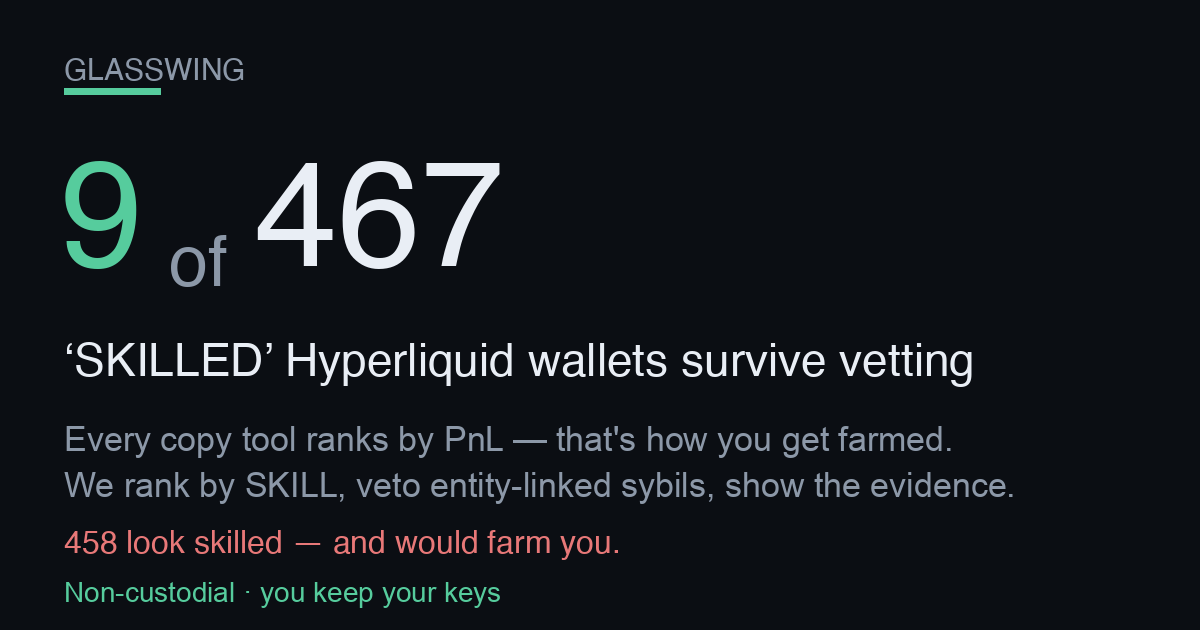
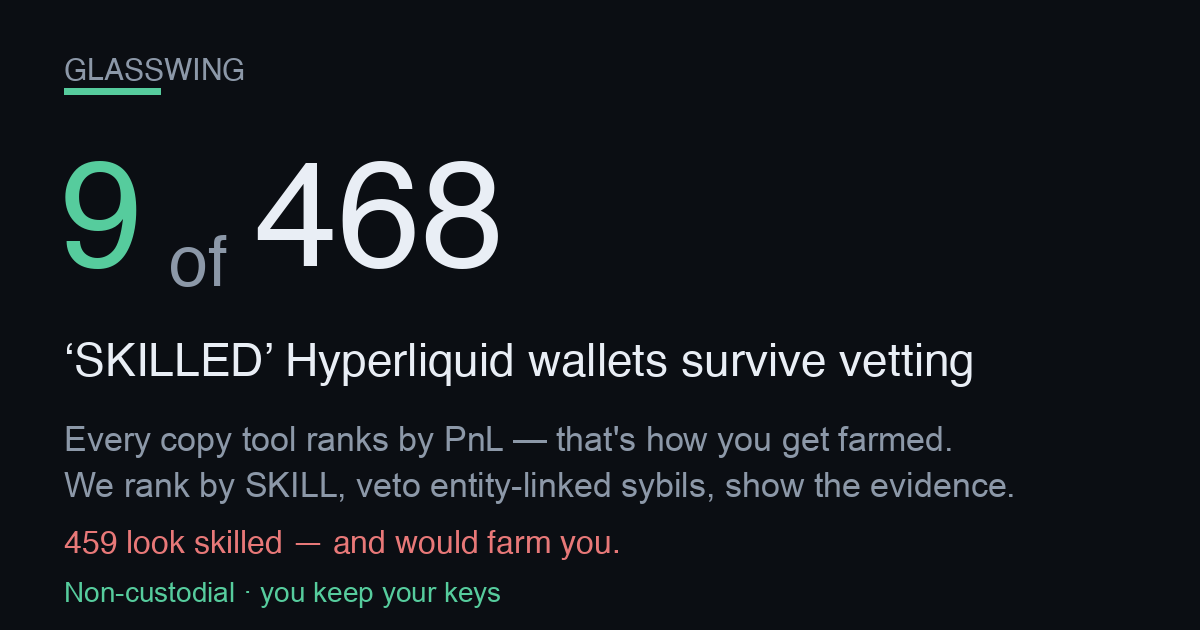
publish funnel 2026-09-25T11:26:40Z

Changed region(s): [[0.3392, 0.2413, 0.4317, 0.4524], [0.0617, 0.8444, 0.0925, 0.8746]]

diff --git a/screener.html b/screener.html
@@ -57,4 +57,4 @@ padding:11px 22px;font-size:15px;font-weight:800;border:1px solid var(--good)}
 footer{margin-top:34px;color:var(--muted);font-size:12px;line-height:1.6;
 border-top:1px solid var(--line);padding-top:16px}
 footer b{color:var(--ink)}
-</style></head><body><div class="wrap"><div class="nav"><a href="./index.html">&larr; Glasswing home</a><span class="sep">|</span><span>Edge Screener</span><span class="sep">|</span><a href="./dex.html">Copy a vetted leader</a></div><div class="hero"><h1>Hyperliquid Edge Screener</h1><div class="sub">Where&rsquo;s the carry, where a maker earns, and what&rsquo;s moving on Hyperliquid &mdash; live, computed from the public API. Bookmark it. Every number below is real and timestamped.</div><div class="stamp">Data as of <b>2026-09-25T05:14:37Z</b> &middot; rendered 2026-09-25T05:14:37Z &middot; 178 perps &middot; 109 HIP-3 (xyz) markets scanned</div></div><h2>Top funding &mdash; the carry table <span class="hint">perps ranked by annualized funding. Positive = longs pay shorts (a delta-neutral short earns it).</span></h2><div class="tblwrap"><table><thead><tr><th>Coin</th><th>Funding / hr</th><th>Annualized</th><th>Who pays</th><th>Open interest</th><th>24h volume</th></tr></thead><tbody><tr><td class="coin">XAI<span class="tag thin" title="Low liquidity/OI &mdash; ADL &amp; liquidation risk; funding can flip">&#9888; thin</span></td><td>-0.0525%</td><td class="neg">-460.3%</td><td><span class="tag shorts">shorts pay</span></td><td>$454K</td><td>$1.9M</td></tr><tr><td class="coin">STBL</td><td>+0.0145%</td><td class="pos">+126.8%</td><td><span class="tag longs">longs pay</span></td><td>$2.4M</td><td>$1.1M</td></tr><tr><td class="coin">GRAM</td><td>+0.0086%</td><td class="pos">+75.7%</td><td><span class="tag longs">longs pay</span></td><td>$39.2M</td><td>$6.2M</td></tr><tr><td class="coin">AR</td><td>+0.0071%</td><td class="pos">+62.4%</td><td><span class="tag longs">longs pay</span></td><td>$6.5M</td><td>$3.1M</td></tr><tr><td class="coin">FOGO</td><td>-0.0060%</td><td class="neg">-52.9%</td><td><span class="tag shorts">shorts pay</span></td><td>$706K</td><td>$253K</td></tr><tr><td class="coin">PONS</td><td>+0.0054%</td><td class="pos">+47.1%</td><td><span class="tag longs">longs pay</span></td><td>$62.8M</td><td>$20.9M</td></tr><tr><td class="coin">XMR</td><td>+0.0043%</td><td class="pos">+37.6%</td><td><span class="tag longs">longs pay</span></td><td>$88.4M</td><td>$34.2M</td></tr><tr><td class="coin">NIL</td><td>+0.0038%</td><td class="pos">+33.5%</td><td><span class="tag longs">longs pay</span></td><td>$13.7M</td><td>$27.4M</td></tr><tr><td class="coin">DOT</td><td>-0.0037%</td><td class="neg">-32.0%</td><td><span class="tag shorts">shorts pay</span></td><td>$5.7M</td><td>$1.6M</td></tr><tr><td class="coin">EIGEN</td><td>+0.0036%</td><td class="pos">+31.4%</td><td><span class="tag longs">longs pay</span></td><td>$4.3M</td><td>$1.1M</td></tr><tr><td class="coin">CRV</td><td>+0.0031%</td><td class="pos">+27.4%</td><td><span class="tag longs">longs pay</span></td><td>$21.8M</td><td>$11.4M</td></tr><tr><td class="coin">XLM</td><td>+0.0031%</td><td class="pos">+26.9%</td><td><span class="tag longs">longs pay</span></td><td>$13.9M</td><td>$4.8M</td></tr></tbody></table></div><h2>Widest HIP-3 spreads &mdash; where a maker earns <span class="hint">xyz: markets by impact-price spread vs the ~0.6bps round-trip fee. A resting limit order captures the gap.</span></h2><div class="tblwrap"><table><thead><tr><th>Market</th><th>Spread</th><th>vs 0.6bps fee</th><th>Mid</th><th>24h volume</th></tr></thead><tbody><tr><td class="coin">xyz:CVX<span class="tag gm">growth</span></td><td>533.6 bps</td><td class="pos">+533.0 bps</td><td>203.7500</td><td>$15K</td></tr><tr><td class="coin">xyz:NCLD<span class="tag gm">growth</span></td><td>367.7 bps</td><td class="pos">+367.1 bps</td><td>25.5275</td><td>$173K</td></tr><tr><td class="coin">xyz:BIRD<span class="tag gm">growth</span></td><td>252.9 bps</td><td class="pos">+252.3 bps</td><td>2.3992</td><td>$58K</td></tr><tr><td class="coin">xyz:GIGADEV<span class="tag gm">growth</span></td><td>242.4 bps</td><td class="pos">+241.8 bps</td><td>55.6690</td><td>$249K</td></tr><tr><td class="coin">xyz:OURA<span class="tag gm">growth</span></td><td>151.5 bps</td><td class="pos">+150.9 bps</td><td>50.8245</td><td>$186K</td></tr><tr><td class="coin">xyz:KSTR<span class="tag gm">growth</span></td><td>94.4 bps</td><td class="pos">+93.8 bps</td><td>23.7355</td><td>$4K</td></tr><tr><td class="coin">xyz:MAGS<span class="tag gm">growth</span></td><td>91.6 bps</td><td class="pos">+91.0 bps</td><td>72.5460</td><td>$436K</td></tr><tr><td class="coin">xyz:LYTE<span class="tag gm">growth</span></td><td>80.4 bps</td><td class="pos">+79.8 bps</td><td>25.5230</td><td>$25K</td></tr><tr><td class="coin">xyz:QNT<span class="tag gm">growth</span></td><td>79.2 bps</td><td class="pos">+78.6 bps</td><td>49.7075</td><td>$604K</td></tr><tr><td class="coin">xyz:XBI<span class="tag gm">growth</span></td><td>77.2 bps</td><td class="pos">+76.6 bps</td><td>156.3050</td><td>$80K</td></tr><tr><td class="coin">xyz:SHAZ<span class="tag gm">growth</span></td><td>70.7 bps</td><td class="pos">+70.1 bps</td><td>57.2530</td><td>$276K</td></tr><tr><td class="coin">xyz:RDDT<span class="tag gm">growth</span></td><td>53.8 bps</td><td class="pos">+53.2 bps</td><td>152.8750</td><td>$142K</td></tr></tbody></table></div><h2>Momentum &amp; volume &mdash; what&rsquo;s moving <span class="hint">perps by 24h volume with the 24h price change (mark vs prior-day).</span></h2><div class="tblwrap"><table><thead><tr><th>Coin</th><th>24h volume</th><th>24h change</th><th>Mark</th></tr></thead><tbody><tr><td class="coin">BTC</td><td>$3.88B</td><td class="pos">+0.02%</td><td>84,184.80</td></tr><tr><td class="coin">ETH</td><td>$1.05B</td><td class="neg">-0.48%</td><td>2,679.00</td></tr><tr><td class="coin">HYPE</td><td>$797.7M</td><td class="neg">-1.12%</td><td>91.6370</td></tr><tr><td class="coin">ZEC</td><td>$551.0M</td><td class="pos">+0.98%</td><td>1,545.10</td></tr><tr><td class="coin">SOL</td><td>$320.4M</td><td class="pos">+0.64%</td><td>116.3600</td></tr><tr><td class="coin">NEAR</td><td>$300.0M</td><td class="neg">-0.25%</td><td>4.4971</td></tr><tr><td class="coin">XRP</td><td>$187.4M</td><td class="pos">+1.38%</td><td>1.5335</td></tr><tr><td class="coin">ONDO</td><td>$155.0M</td><td class="pos">+24.55%</td><td>0.533622</td></tr><tr><td class="coin">ENA</td><td>$80.2M</td><td class="pos">+3.89%</td><td>0.22063</td></tr><tr><td class="coin">XPL</td><td>$76.7M</td><td class="pos">+27.59%</td><td>0.11505</td></tr><tr><td class="coin">LTC</td><td>$74.4M</td><td class="pos">+3.87%</td><td>70.8630</td></tr><tr><td class="coin">LIT</td><td>$70.3M</td><td class="neg">-6.99%</td><td>4.9529</td></tr></tbody></table></div><div class="cta"><h2>These are the opportunities. Now copy the people who trade them.</h2><p class="lead">Spotting the carry and the spreads is the easy part &mdash; sizing, timing and risk are where most traders bleed. Copy the <b>skill-vetted</b> Hyperliquid leaders who actually trade these edges. Non-custodial: <b>you keep your keys and your funds</b> the entire time.</p><div class="row"><a class="btn" href="./index.html">See the vetted leaders &rarr;</a><a class="btn ghost" href="./dex.html">Start copying (non-custodial) &rarr;</a></div><div class="nc"><b>Non-custodial &amp; honest:</b> we never hold your keys or funds. Copying routes through a <b>0.01%</b> (1bp) on-chain builder fee &mdash; that is the only thing we ever charge, and it is the same fee shown on the copy page. Nothing on this screener is executed for you; it is information only.</div></div><footer><b>Not financial advice.</b> Funding rates, spreads and volumes are live snapshots that change every block; figures can be stale by the time you act. A high funding rate is <b>not free money</b> &mdash; the biggest rates sit on the thinnest, most crowded books (flagged &#9888; thin), where funding can flip against you and auto-deleveraging (ADL) or liquidation can close your position. &ldquo;Spread&rdquo; here is the impact-price spread (a conservative maker signal), not a guaranteed fill. HIP-3 markets are experimental. Do your own research and size responsibly. Glasswing is <b>non-custodial</b> &mdash; we never take custody of your keys or funds.</footer></div></body></html>
+</style></head><body><div class="wrap"><div class="nav"><a href="./index.html">&larr; Glasswing home</a><span class="sep">|</span><span>Edge Screener</span><span class="sep">|</span><a href="./dex.html">Copy a vetted leader</a></div><div class="hero"><h1>Hyperliquid Edge Screener</h1><div class="sub">Where&rsquo;s the carry, where a maker earns, and what&rsquo;s moving on Hyperliquid &mdash; live, computed from the public API. Bookmark it. Every number below is real and timestamped.</div><div class="stamp">Data as of <b>2026-09-25T11:23:21Z</b> &middot; rendered 2026-09-25T11:23:21Z &middot; 178 perps &middot; 109 HIP-3 (xyz) markets scanned</div></div><h2>Top funding &mdash; the carry table <span class="hint">perps ranked by annualized funding. Positive = longs pay shorts (a delta-neutral short earns it).</span></h2><div class="tblwrap"><table><thead><tr><th>Coin</th><th>Funding / hr</th><th>Annualized</th><th>Who pays</th><th>Open interest</th><th>24h volume</th></tr></thead><tbody><tr><td class="coin">XAI<span class="tag thin" title="Low liquidity/OI &mdash; ADL &amp; liquidation risk; funding can flip">&#9888; thin</span></td><td>-0.0197%</td><td class="neg">-172.3%</td><td><span class="tag shorts">shorts pay</span></td><td>$447K</td><td>$1.9M</td></tr><tr><td class="coin">REZ</td><td>+0.0181%</td><td class="pos">+159.0%</td><td><span class="tag longs">longs pay</span></td><td>$1.5M</td><td>$273K</td></tr><tr><td class="coin">CASHCAT</td><td>+0.0171%</td><td class="pos">+150.2%</td><td><span class="tag longs">longs pay</span></td><td>$50.4M</td><td>$11.4M</td></tr><tr><td class="coin">STBL</td><td>+0.0140%</td><td class="pos">+123.0%</td><td><span class="tag longs">longs pay</span></td><td>$2.4M</td><td>$917K</td></tr><tr><td class="coin">JUP</td><td>+0.0133%</td><td class="pos">+116.6%</td><td><span class="tag longs">longs pay</span></td><td>$19.0M</td><td>$11.6M</td></tr><tr><td class="coin">PONS</td><td>+0.0112%</td><td class="pos">+98.4%</td><td><span class="tag longs">longs pay</span></td><td>$66.6M</td><td>$20.9M</td></tr><tr><td class="coin">GRAM</td><td>+0.0090%</td><td class="pos">+78.7%</td><td><span class="tag longs">longs pay</span></td><td>$40.8M</td><td>$6.8M</td></tr><tr><td class="coin">VIRTUAL</td><td>+0.0089%</td><td class="pos">+78.4%</td><td><span class="tag longs">longs pay</span></td><td>$11.7M</td><td>$3.4M</td></tr><tr><td class="coin">CRV</td><td>+0.0088%</td><td class="pos">+76.6%</td><td><span class="tag longs">longs pay</span></td><td>$22.2M</td><td>$10.3M</td></tr><tr><td class="coin">ONDO</td><td>+0.0086%</td><td class="pos">+75.2%</td><td><span class="tag longs">longs pay</span></td><td>$90.1M</td><td>$176.0M</td></tr><tr><td class="coin">MINA</td><td>-0.0082%</td><td class="neg">-71.5%</td><td><span class="tag shorts">shorts pay</span></td><td>$3.5M</td><td>$643K</td></tr><tr><td class="coin">ENA</td><td>+0.0080%</td><td class="pos">+70.0%</td><td><span class="tag longs">longs pay</span></td><td>$124.9M</td><td>$83.0M</td></tr></tbody></table></div><h2>Widest HIP-3 spreads &mdash; where a maker earns <span class="hint">xyz: markets by impact-price spread vs the ~0.6bps round-trip fee. A resting limit order captures the gap.</span></h2><div class="tblwrap"><table><thead><tr><th>Market</th><th>Spread</th><th>vs 0.6bps fee</th><th>Mid</th><th>24h volume</th></tr></thead><tbody><tr><td class="coin">xyz:CVX<span class="tag gm">growth</span></td><td>445.5 bps</td><td class="pos">+444.9 bps</td><td>204.7950</td><td>$27K</td></tr><tr><td class="coin">xyz:BIRD<span class="tag gm">growth</span></td><td>244.4 bps</td><td class="pos">+243.8 bps</td><td>2.4038</td><td>$57K</td></tr><tr><td class="coin">xyz:NCLD<span class="tag gm">growth</span></td><td>234.0 bps</td><td class="pos">+233.4 bps</td><td>25.7475</td><td>$150K</td></tr><tr><td class="coin">xyz:GIGADEV<span class="tag gm">growth</span></td><td>151.3 bps</td><td class="pos">+150.7 bps</td><td>56.7975</td><td>$62K</td></tr><tr><td class="coin">xyz:SHEIN<span class="tag gm">growth</span></td><td>117.8 bps</td><td class="pos">+117.2 bps</td><td>4.5637</td><td>$613K</td></tr><tr><td class="coin">xyz:OURA<span class="tag gm">growth</span></td><td>109.2 bps</td><td class="pos">+108.6 bps</td><td>50.3410</td><td>$249K</td></tr><tr><td class="coin">xyz:KSTR<span class="tag gm">growth</span></td><td>102.2 bps</td><td class="pos">+101.6 bps</td><td>23.7115</td><td>$12K</td></tr><tr><td class="coin">xyz:SHAZ<span class="tag gm">growth</span></td><td>93.6 bps</td><td class="pos">+93.0 bps</td><td>58.0790</td><td>$246K</td></tr><tr><td class="coin">xyz:NET<span class="tag gm">growth</span></td><td>87.3 bps</td><td class="pos">+86.7 bps</td><td>362.1150</td><td>$170K</td></tr><tr><td class="coin">xyz:MAGS<span class="tag gm">growth</span></td><td>84.8 bps</td><td class="pos">+84.2 bps</td><td>72.8080</td><td>$311K</td></tr><tr><td class="coin">xyz:LYTE<span class="tag gm">growth</span></td><td>72.1 bps</td><td class="pos">+71.5 bps</td><td>25.6200</td><td>$13K</td></tr><tr><td class="coin">xyz:XBI<span class="tag gm">growth</span></td><td>64.9 bps</td><td class="pos">+64.3 bps</td><td>157.0950</td><td>$29K</td></tr></tbody></table></div><h2>Momentum &amp; volume &mdash; what&rsquo;s moving <span class="hint">perps by 24h volume with the 24h price change (mark vs prior-day).</span></h2><div class="tblwrap"><table><thead><tr><th>Coin</th><th>24h volume</th><th>24h change</th><th>Mark</th></tr></thead><tbody><tr><td class="coin">BTC</td><td>$3.27B</td><td class="pos">+1.79%</td><td>84,999.00</td></tr><tr><td class="coin">ETH</td><td>$986.3M</td><td class="pos">+3.07%</td><td>2,729.10</td></tr><tr><td class="coin">HYPE</td><td>$571.3M</td><td class="pos">+3.37%</td><td>93.9020</td></tr><tr><td class="coin">ZEC</td><td>$519.4M</td><td class="pos">+8.29%</td><td>1,611.80</td></tr><tr><td class="coin">NEAR</td><td>$313.8M</td><td class="pos">+18.13%</td><td>5.0324</td></tr><tr><td class="coin">SOL</td><td>$307.9M</td><td class="pos">+6.67%</td><td>120.8800</td></tr><tr><td class="coin">ONDO</td><td>$176.0M</td><td class="pos">+30.15%</td><td>0.55642</td></tr><tr><td class="coin">XRP</td><td>$174.3M</td><td class="pos">+7.73%</td><td>1.5839</td></tr><tr><td class="coin">XPL</td><td>$107.9M</td><td class="pos">+30.71%</td><td>0.11539</td></tr><tr><td class="coin">ENA</td><td>$83.0M</td><td class="pos">+17.30%</td><td>0.23934</td></tr><tr><td class="coin">LTC</td><td>$65.1M</td><td class="pos">+6.78%</td><td>71.0450</td></tr><tr><td class="coin">LIT</td><td>$59.1M</td><td class="pos">+0.21%</td><td>5.0293</td></tr></tbody></table></div><div class="cta"><h2>These are the opportunities. Now copy the people who trade them.</h2><p class="lead">Spotting the carry and the spreads is the easy part &mdash; sizing, timing and risk are where most traders bleed. Copy the <b>skill-vetted</b> Hyperliquid leaders who actually trade these edges. Non-custodial: <b>you keep your keys and your funds</b> the entire time.</p><div class="row"><a class="btn" href="./index.html">See the vetted leaders &rarr;</a><a class="btn ghost" href="./dex.html">Start copying (non-custodial) &rarr;</a></div><div class="nc"><b>Non-custodial &amp; honest:</b> we never hold your keys or funds. Copying routes through a <b>0.01%</b> (1bp) on-chain builder fee &mdash; that is the only thing we ever charge, and it is the same fee shown on the copy page. Nothing on this screener is executed for you; it is information only.</div></div><footer><b>Not financial advice.</b> Funding rates, spreads and volumes are live snapshots that change every block; figures can be stale by the time you act. A high funding rate is <b>not free money</b> &mdash; the biggest rates sit on the thinnest, most crowded books (flagged &#9888; thin), where funding can flip against you and auto-deleveraging (ADL) or liquidation can close your position. &ldquo;Spread&rdquo; here is the impact-price spread (a conservative maker signal), not a guaranteed fill. HIP-3 markets are experimental. Do your own research and size responsibly. Glasswing is <b>non-custodial</b> &mdash; we never take custody of your keys or funds.</footer></div></body></html>

diff --git a/index.html b/index.html
@@ -3,8 +3,8 @@
 <head>
 <meta charset="utf-8">
 <meta name="viewport" content="width=device-width, initial-scale=1">
-<title>9 of 467 SKILLED Hyperliquid wallets survive vetting</title>
-<meta name="description" content="9 of 467 leaderboard-SKILLED Hyperliquid wallets survive vetting. Copy only the survivors, non-custodial — you keep your keys and funds.">
+<title>9 of 468 SKILLED Hyperliquid wallets survive vetting</title>
+<meta name="description" content="9 of 468 leaderboard-SKILLED Hyperliquid wallets survive vetting. Copy only the survivors, non-custodial — you keep your keys and funds.">
 <link rel="canonical" href="https://dynobit.github.io/glasswing/">
 <meta name="robots" content="index,follow">
 <meta name="theme-color" content="#0b0e13">
@@ -14,14 +14,14 @@
      head, not this. og:url is the canonical Pages home so every share resolves here. -->
 <meta property="og:type" content="website">
 <meta property="og:site_name" content="Glasswing">
-<meta property="og:title" content="9 of 467 SKILLED Hyperliquid wallets survive vetting">
+<meta property="og:title" content="9 of 468 SKILLED Hyperliquid wallets survive vetting">
 <meta property="og:description" content="Every copy tool ranks leaders by PnL — which is how you get farmed. This ranks by SKILL, then vetoes entity-linked sybils, and shows the evidence for every reject. Non-custodial: you keep your keys.">
 <meta property="og:url" content="https://dynobit.github.io/glasswing/">
 <meta property="og:image" content="https://dynobit.github.io/glasswing/og-card.png">
 <meta property="og:image:width" content="1200">
 <meta property="og:image:height" content="630">
 <meta name="twitter:card" content="summary_large_image">
-<meta name="twitter:title" content="9 of 467 SKILLED Hyperliquid wallets survive vetting">
+<meta name="twitter:title" content="9 of 468 SKILLED Hyperliquid wallets survive vetting">
 <meta name="twitter:description" content="Skill-ranked (not PnL-ranked) HL copy-leaders, entity-linked sybils vetoed with evidence. Non-custodial.">
 <meta name="twitter:image" content="https://dynobit.github.io/glasswing/og-card.png">
 <style>
@@ -135,18 +135,18 @@ footer .nc{color:var(--good);font-weight:600}
 
   <!-- 1. HERO — the shareable hook (screenshot-worthy) -->
   <div class="hero">
-    <h1><span class="big">9 of 467</span> &lsquo;SKILLED&rsquo;
+    <h1><span class="big">9 of 468</span> &lsquo;SKILLED&rsquo;
     Hyperliquid wallets survive vetting</h1>
-    <div class="sub">The other <span class="trap">458</span> look skilled on a
+    <div class="sub">The other <span class="trap">459</span> look skilled on a
     raw copy leaderboard but would farm you &mdash; here are the
-    <span class="trap">458</span> that would. Entity-linked sybils,
+    <span class="trap">459</span> that would. Entity-linked sybils,
     wash-traded track records, or simply unscreened. 1.9% survive.
-    Universe: 4492 scored wallets.</div>
+    Universe: 4511 scored wallets.</div>
   </div>
 
   <!-- 2. THE WEDGE — the marketing (why us, not any other copy tool) -->
   <div class="wedge"><span class="them">Every other copy tool ranks all
-    467 by PnL and calls it a leaderboard.</span> We are the only one that
+    468 by PnL and calls it a leaderboard.</span> We are the only one that
     <b>flags the entity-linked and farming wallets with on-chain evidence</b> &mdash;
     transfer-graph linkage between wallets and arXiv memecoin farm-features &mdash;
     and shows you only the 9 that survive. A high PnL is exactly what a
@@ -268,7 +268,7 @@ footer .nc{color:var(--good);font-weight:600}
   <footer>
     <div class="nc">Non-custodial: we never hold your keys or funds. No server, no backend. Your browser talks only to Hyperliquid&#x27;s public API.</div>
     <div>Advisory. Skill = sign-randomization null vs luck. Entity veto = public transfer-graph linkage. Farm screen = arXiv:2601.08641 features (memecoin thresholds, HL-uncalibrated). Follower-realizable PnL is NOT yet proven — a PRE-COMMITTED forward test is in progress (0/2 windows, earliest 2026-08-13); the copyability claim publishes only when the pre-registered windows close, so it cannot be discovery-mined. Exit-alpha shown is advisory. Not financial advice.</div>
-    <div class="stamp">Generated at 2026-09-25T05:13:55Z &middot; single-file funnel,
+    <div class="stamp">Generated at 2026-09-25T11:21:46Z &middot; single-file funnel,
     no live authority. In-browser order signing is IMPLEMENTED (real secp256k1 +
     keccak + msgpack EIP-712 from a pinned CDN) but UNVALIDATED against Hyperliquid:
     mainnet is blocked until a testnet order is proven accepted.</div>

diff --git a/track.html b/track.html
@@ -62,7 +62,7 @@ font-weight:600;font-size:14px}
 <div class="wrap">
   <div class="hero">
     <h1>Self-verifying on-chain track record</h1>
-    <div class="big">$40.90</div>
+    <div class="big">$40.84</div>
     <div class="sub">current on-chain equity (perp + vault + spot USDC)</div>
     <div class="addr">0xbe6C1b09662BbE52CC93279D103Feb27985DdBc1</div>
     <div class="stage building">68 days live — BUILDING</div>
@@ -72,7 +72,7 @@ font-weight:600;font-size:14px}
 
   <h2>On-chain figures <span style="color:var(--muted);font-weight:400;font-size:13px">
   &mdash; every one reproducible from the public info API</span></h2>
-  <table><tbody><tr><td class="k">On-chain equity (perp + vault + spot USDC)</td><td class="v">$40.90</td></tr><tr><td class="k">Perp account value</td><td class="v">$29.14</td></tr><tr><td class="k">Vault equity</td><td class="v">$0.16</td></tr><tr><td class="k">Spot USDC</td><td class="v">$11.60</td></tr><tr><td class="k">Withdrawable</td><td class="v">$29.14</td></tr></tbody></table>
+  <table><tbody><tr><td class="k">On-chain equity (perp + vault + spot USDC)</td><td class="v">$40.84</td></tr><tr><td class="k">Perp account value</td><td class="v">$29.08</td></tr><tr><td class="k">Vault equity</td><td class="v">$0.16</td></tr><tr><td class="k">Spot USDC</td><td class="v">$11.60</td></tr><tr><td class="k">Withdrawable</td><td class="v">$29.08</td></tr></tbody></table>
 
   <h2>Vault deposits (on-chain)</h2><table><thead><tr><th>Vault address</th><th>Our equity</th></tr></thead><tbody><tr><td class="mono">0x2431edfcb662e6ff6deab113cc91878a0b53fb0f</td><td class="v">$0.01</td></tr><tr><td class="mono">0x697bc3dd77539fa84156d0e1c95287ea5524fd6b</td><td class="v">$0.00</td></tr><tr><td class="mono">0x8825e6ed11c7f9c0874579c9f4bba192b9e81c8f</td><td class="v">$0.13</td></tr><tr><td class="mono">0xc71f5a493b937e4b1798b86510630336a6dfd804</td><td class="v">$0.03</td></tr></tbody></table>
 
@@ -89,8 +89,8 @@ font-weight:600;font-size:14px}
 
   <footer>
     <div>Self-verifying: every on-chain figure is reproducible by querying Hyperliquid&#x27;s public info API for the stated address. Internal daily marks are cross-checkable against on-chain equity. EARLY-STAGE record — not a mature track record, not an APR promise, not financial advice. Past performance != future results.</div>
-    <div class="stamp">Generated at 2026-09-25T05:13:48Z &middot; internal marks
-    mtime 2026-09-25T01:28:44Z &middot; static receipt, no live
+    <div class="stamp">Generated at 2026-09-25T11:19:54Z &middot; internal marks
+    mtime 2026-09-25T07:28:53Z &middot; static receipt, no live
     authority — this page never trades or arms.</div>
   </footer>
 </div>

diff --git a/dex.html b/dex.html
@@ -112,8 +112,8 @@ footer .nc{color:var(--good);font-weight:600}
     funds and your keys the whole time. Two signatures in your own wallet, an
     ephemeral in-browser agent key that can trade but never withdraw, and a
     client-side loop that mirrors only the
-    <b>9 of 467</b> vetted survivors
-    (universe: 4492 scored wallets). No server, no backend.</div>
+    <b>9 of 468</b> vetted survivors
+    (universe: 4511 scored wallets). No server, no backend.</div>
     <div class="tag">static bundle &middot; IPFS-publishable &middot; revenue accrues on-chain</div>
   </div>
 
@@ -217,7 +217,7 @@ footer .nc{color:var(--good);font-weight:600}
   <footer>
     <div class="nc">Pure DEX, self-custodial. No server, no backend, no key we ever hold. Your browser talks only to Hyperliquid&#x27;s public API.</div>
     <div>Advisory. Skill = sign-randomization null vs luck. Entity veto = public transfer-graph linkage. Farm screen = arXiv:2601.08641 features (memecoin thresholds, HL-uncalibrated). Follower-realizable PnL is NOT yet proven — a PRE-COMMITTED forward test is in progress (0/2 windows, earliest 2026-08-13); the copyability claim publishes only when the pre-registered windows close, so it cannot be discovery-mined. Exit-alpha shown is advisory. Not financial advice.</div>
-    <div class="stamp">Generated at 2026-09-25T05:13:55Z &middot; static,
+    <div class="stamp">Generated at 2026-09-25T11:21:46Z &middot; static,
     self-custodial surface, no live authority. In-browser order signing is
     IMPLEMENTED (real secp256k1 + keccak + msgpack EIP-712 from a pinned CDN) but
     UNVALIDATED against Hyperliquid: mainnet is blocked until a testnet order is
